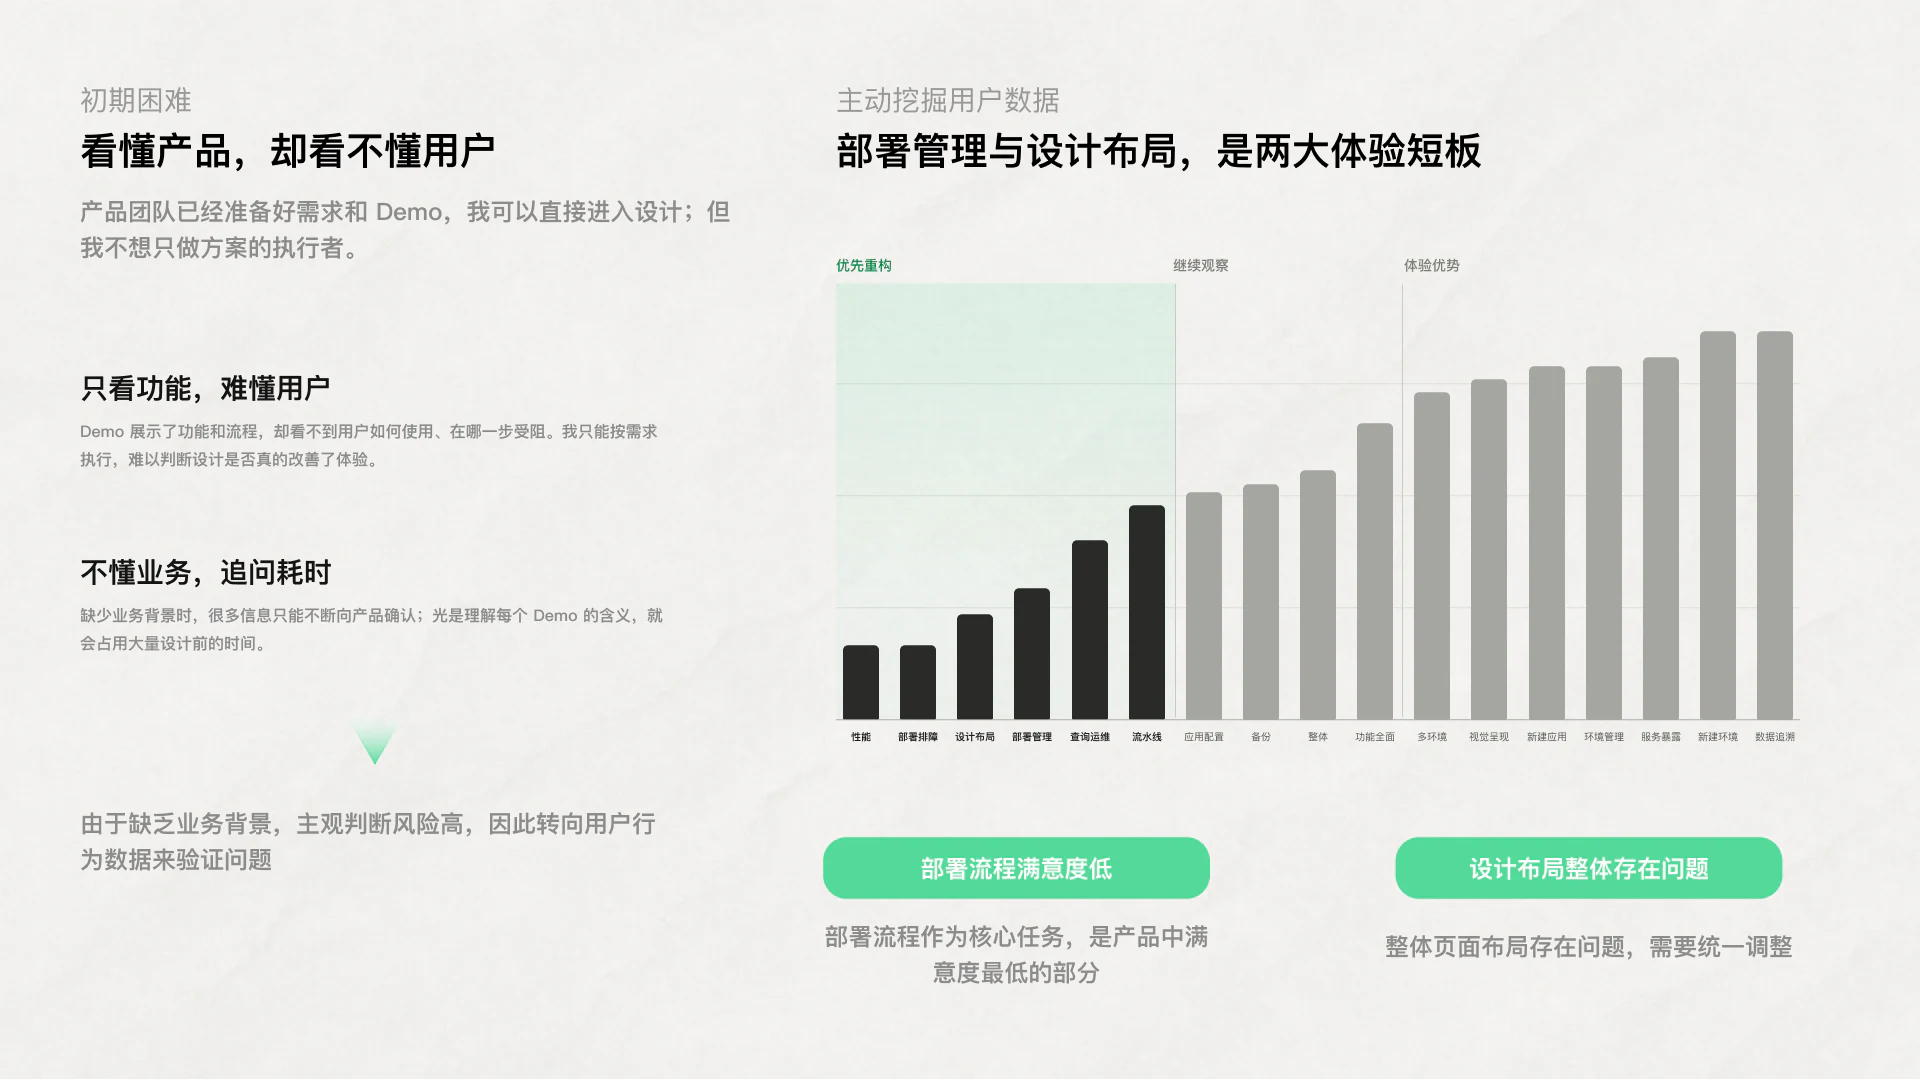
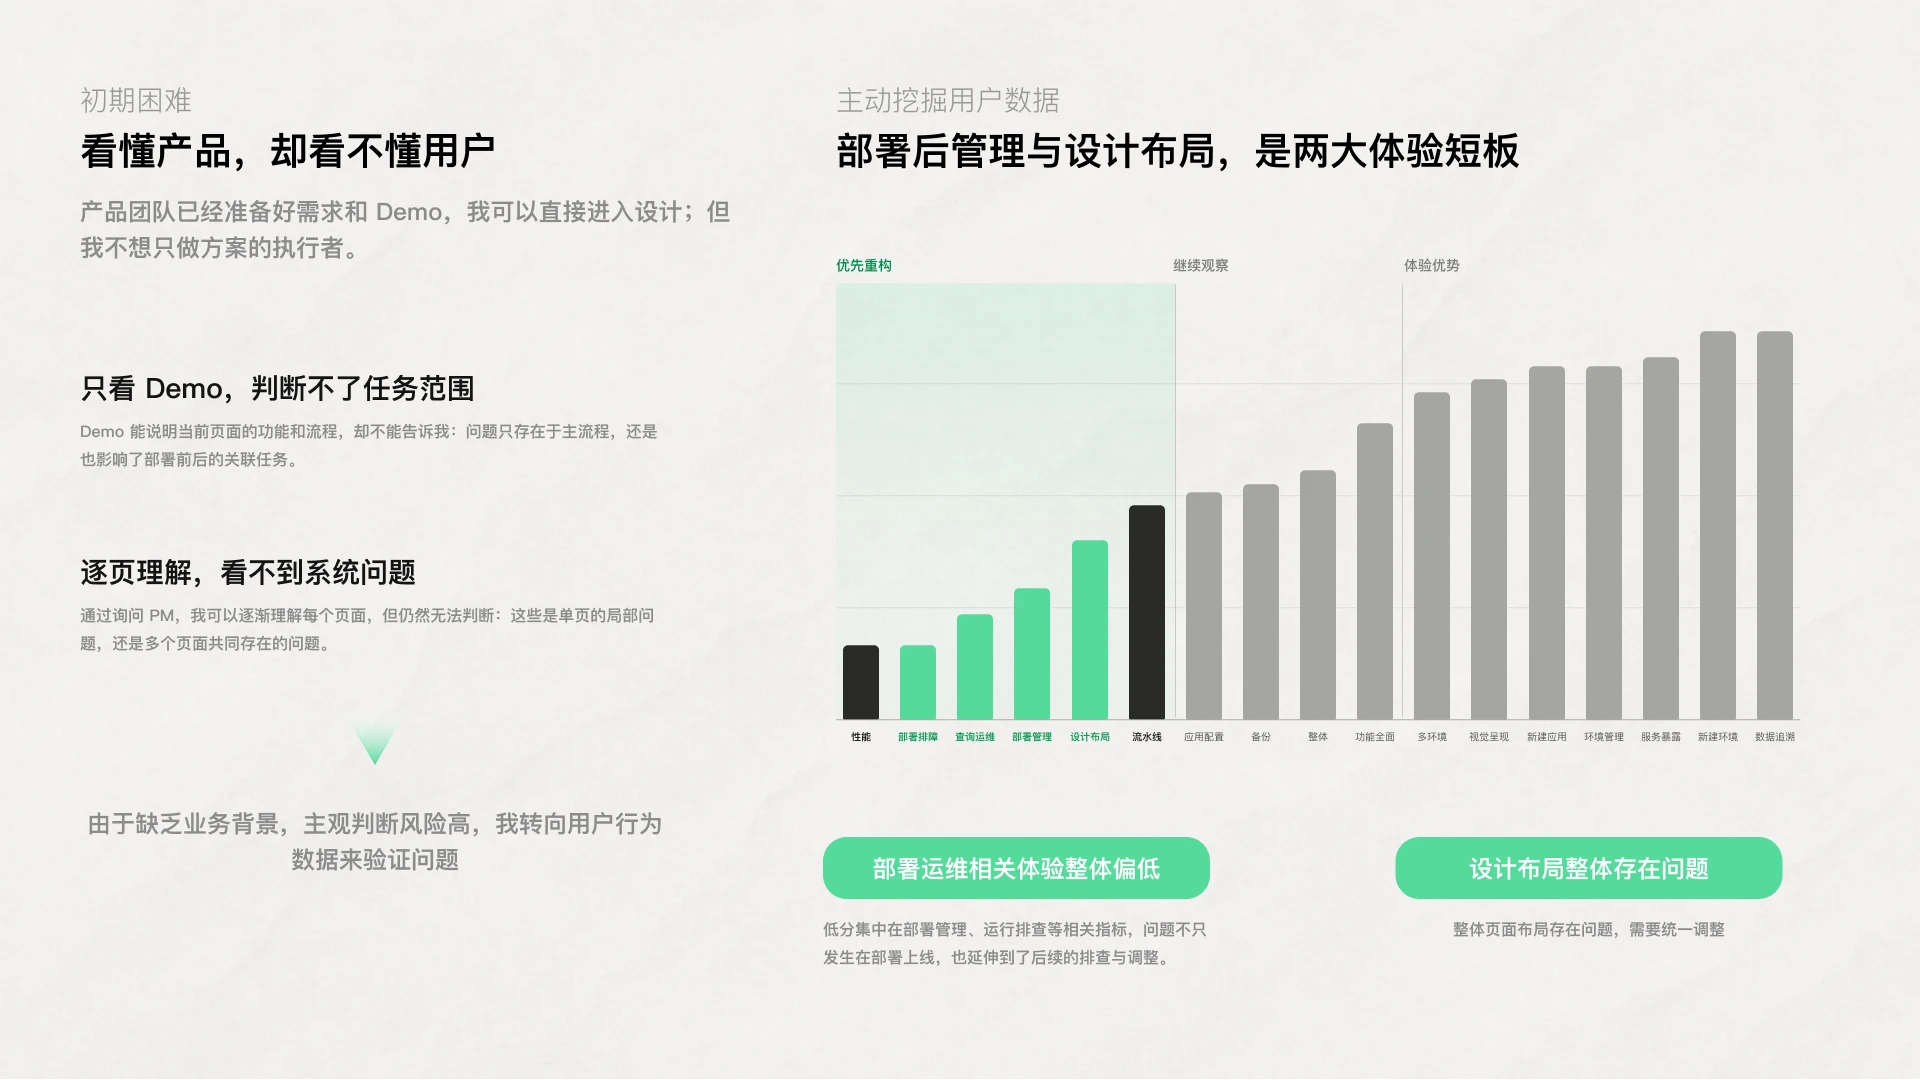
Update portfolio case study pages

diff --git a/pages/cnap-case.html b/pages/cnap-case.html
@@ -23,11 +23,11 @@
       <section class="slides" aria-label="CNAP 云原生工作负载管理项目案例">
         <img src="../assets/cnap-case/page-01.webp" alt="CNAP 云原生工作负载管理项目概览" data-section-kicker="项目开篇" data-section-title="复杂 B 端系统体验重构" width="1920" height="1080" fetchpriority="high" decoding="async" />
         <img data-src="../assets/cnap-case/page-02-revised.webp" alt="CNAP 信息架构与核心任务流程" data-section-kicker="项目背景" data-section-title="系统复杂化带来的核心痛点" width="1920" height="1080" loading="lazy" decoding="async" />
-        <img data-src="../assets/cnap-case/page-03.webp" alt="CNAP 用户满意度调研与问题分布" data-section-kicker="数据驱动" data-section-title="从满意度数据定位优先级" width="1920" height="1080" loading="lazy" decoding="async" />
+        <img data-src="../assets/cnap-case/page-03.webp?v=20260914-1" alt="CNAP 初期困难与体验短板：看懂产品，却看不懂用户" data-section-kicker="初期困难" data-section-title="看懂产品，却看不懂用户" width="1920" height="1080" loading="lazy" decoding="async" />
         <img data-src="../assets/cnap-case/page-04.webp" alt="CNAP 设计重构目标与策略" data-section-kicker="设计策略" data-section-title="先解决高频任务，再沉淀页面规则" width="1920" height="1080" loading="lazy" decoding="async" />
         <img data-src="../assets/cnap-case/page-05.webp" alt="CNAP 页面改版前后对比" data-section-kicker="方案对比" data-section-title="让用户一眼找到要查的任务" width="1920" height="1080" loading="lazy" decoding="async" />
         <img data-src="../assets/cnap-case/page-06.webp" alt="CNAP 核心流程与信息架构优化" data-section-kicker="信息架构" data-section-title="重组部署与排障路径" width="1920" height="1080" loading="lazy" decoding="async" />
-        <img data-src="../assets/cnap-case/page-07.webp" alt="CNAP 问题拆解与设计机会" data-section-kicker="问题拆解" data-section-title="两个成本最高的判断任务" width="1920" height="1080" loading="lazy" decoding="async" />
+        <img data-src="../assets/cnap-case/page-07.webp?v=20260914-1" alt="CNAP 设计点一：状态难查与配置难改" data-section-kicker="设计点一" data-section-title="状态难查，配置难改" width="1920" height="1080" loading="lazy" decoding="async" />
         <div class="case-slide-frame cnap-interactive-slide cnap-preview-slide" id="workload-preview">
           <img data-src="../assets/cnap-case/page-08-interactive-base.webp" alt="CNAP 设计方案与页面结构" data-section-kicker="设计方案" data-section-title="让配置关系变得可理解" width="1920" height="1080" loading="lazy" decoding="async" />
           <div class="cnap-preview-viewport cnap-workload-hotspot">
